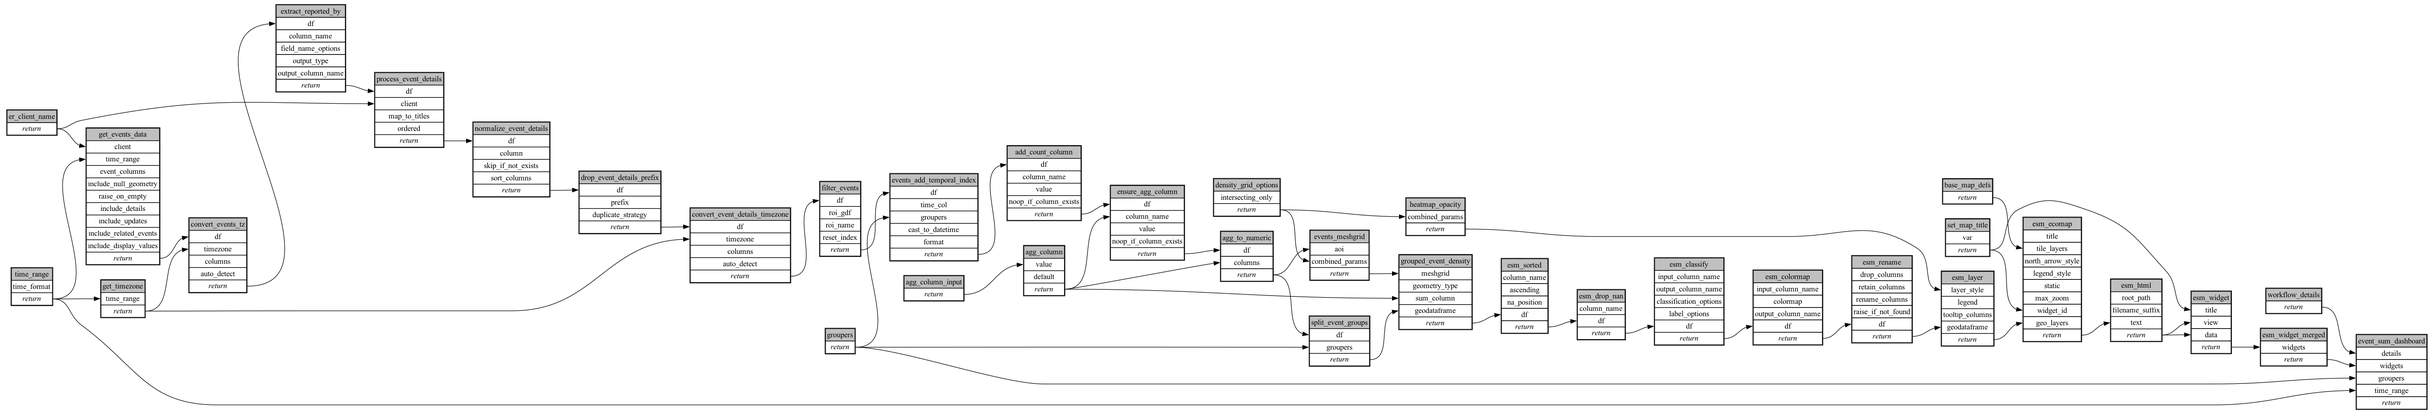
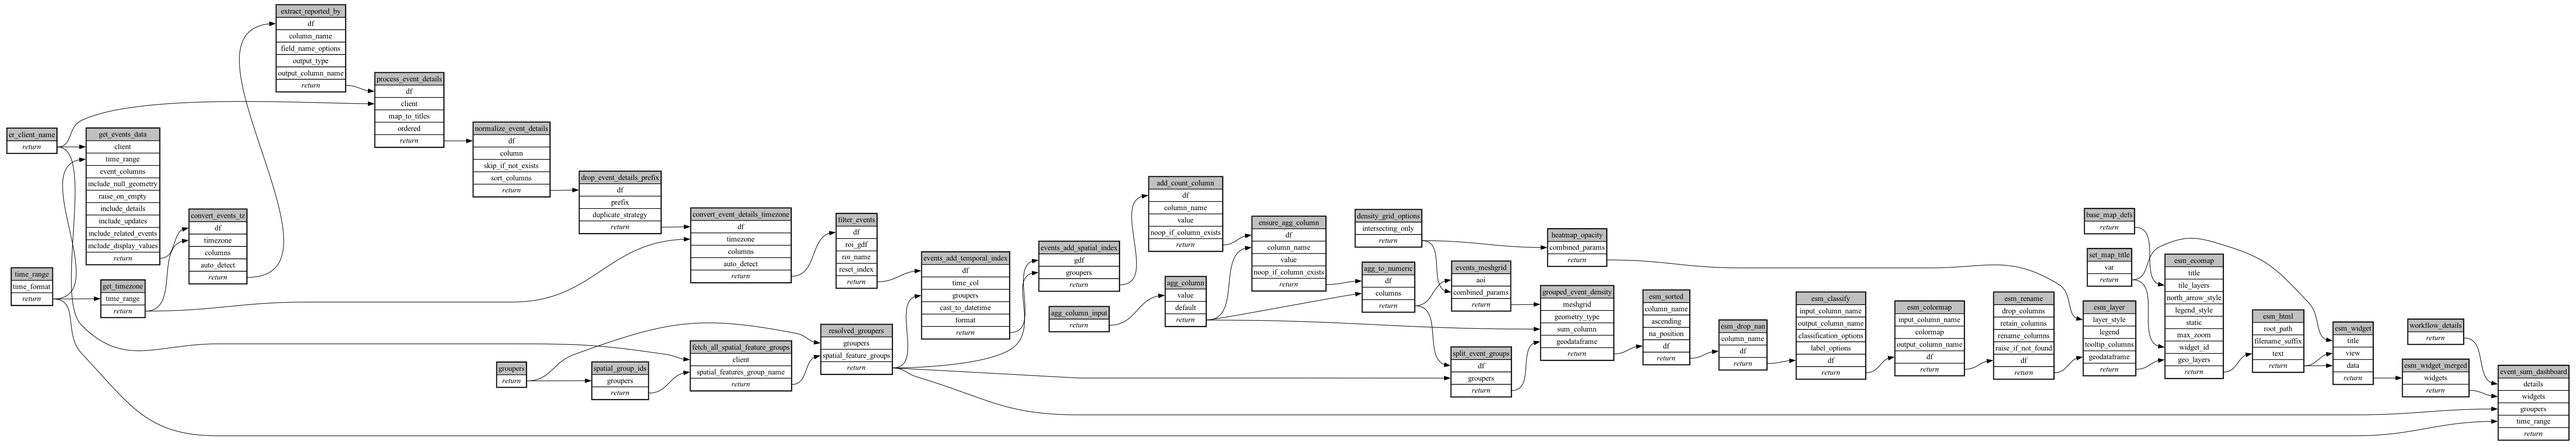
feat: add spatial groupers (events-workflow pattern) with mocked spatial-grouped case

Changed region(s): [[0.0936, 0.0, 0.9986, 1.0], [0.0, 0.2473, 0.1248, 0.7727], [0.0624, 0.9581, 0.9362, 0.989]]

diff --git a/ecoscope-workflows-event-sum-map-workflow/ecoscope_workflows_event_sum_map_workflow/dags/run_sequential_mock_io.py b/ecoscope-workflows-event-sum-map-workflow/ecoscope_workflows_event_sum_map_workflow/dags/run_sequential_mock_io.py
@@ -42,6 +42,24 @@ process_events_details = create_func_magicmock(  # 🧪
     anchor="ecoscope_workflows_ext_custom.tasks.io",  # 🧪
     func_name="process_events_details",  # 🧪
 )  # 🧪
+from ecoscope.platform.tasks.groupby import set_groupers as set_groupers
+from ecoscope.platform.tasks.transformation import (
+    apply_reloc_coord_filter as apply_reloc_coord_filter,
+)
+from ecoscope.platform.tasks.transformation import (
+    extract_spatial_grouper_feature_group_names as extract_spatial_grouper_feature_group_names,
+)
+from ecoscope.platform.tasks.transformation import (
+    normalize_json_column as normalize_json_column,
+)
+from ecoscope_workflows_ext_custom.tasks.transformation import (
+    drop_column_prefix as drop_column_prefix,
+)
+
+get_spatial_features_group = create_func_magicmock(  # 🧪
+    anchor="ecoscope.platform.tasks.io",  # 🧪
+    func_name="get_spatial_features_group",  # 🧪
+)  # 🧪
 from ecoscope.platform.tasks.analysis import (
     calculate_feature_density as calculate_feature_density,
 )
@@ -58,7 +76,6 @@ from ecoscope.platform.tasks.config import (
     set_density_grid_options as set_density_grid_options,
 )
 from ecoscope.platform.tasks.config import set_string_var as set_string_var
-from ecoscope.platform.tasks.groupby import set_groupers as set_groupers
 from ecoscope.platform.tasks.groupby import split_groups as split_groups
 from ecoscope.platform.tasks.io import persist_text as persist_text
 from ecoscope.platform.tasks.results import (
@@ -72,15 +89,15 @@ from ecoscope.platform.tasks.results import set_base_maps as set_base_maps
 from ecoscope.platform.tasks.skip import all_geometry_are_none as all_geometry_are_none
 from ecoscope.platform.tasks.skip import never as never
 from ecoscope.platform.tasks.transformation import (
+    add_spatial_index as add_spatial_index,
+)
+from ecoscope.platform.tasks.transformation import (
     add_temporal_index as add_temporal_index,
 )
 from ecoscope.platform.tasks.transformation import (
     apply_classification as apply_classification,
 )
 from ecoscope.platform.tasks.transformation import apply_color_map as apply_color_map
-from ecoscope.platform.tasks.transformation import (
-    apply_reloc_coord_filter as apply_reloc_coord_filter,
-)
 from ecoscope.platform.tasks.transformation import assign_value as assign_value
 from ecoscope.platform.tasks.transformation import (
     convert_column_values_to_numeric as convert_column_values_to_numeric,
@@ -90,12 +107,9 @@ from ecoscope.platform.tasks.transformation import (
 )
 from ecoscope.platform.tasks.transformation import map_columns as map_columns
 from ecoscope.platform.tasks.transformation import (
-    normalize_json_column as normalize_json_column,
+    resolve_spatial_feature_groups_for_spatial_groupers as resolve_spatial_feature_groups_for_spatial_groupers,
 )
 from ecoscope.platform.tasks.transformation import sort_values as sort_values
-from ecoscope_workflows_ext_custom.tasks.transformation import (
-    drop_column_prefix as drop_column_prefix,
-)
 
 
 def main(params: dict[str, Any], validate_params_schema: bool = True):
@@ -387,6 +401,63 @@ def main(params: dict[str, Any], validate_params_schema: bool = True):
         .call()
     )
 
+    spatial_group_ids = (
+        task(extract_spatial_grouper_feature_group_names)
+        .validate()
+        .set_task_instance_id("spatial_group_ids")
+        .handle_errors()
+        .with_tracing()
+        .skipif(
+            conditions=[
+                any_is_empty_df,
+                any_dependency_skipped,
+            ],
+            unpack_depth=1,
+        )
+        .partial(groupers=groupers, **(params.get("spatial_group_ids") or {}))
+        .call()
+    )
+
+    fetch_all_spatial_feature_groups = (
+        task(get_spatial_features_group)
+        # 🧪 validation omitted for mocked IO task (returns pre-loaded example data)
+        .set_task_instance_id("fetch_all_spatial_feature_groups")
+        .handle_errors()
+        .with_tracing()
+        .skipif(
+            conditions=[
+                any_is_empty_df,
+                any_dependency_skipped,
+            ],
+            unpack_depth=1,
+        )
+        .partial(
+            client=er_client_name,
+            **(params.get("fetch_all_spatial_feature_groups") or {}),
+        )
+        .map(argnames=["spatial_features_group_name"], argvalues=spatial_group_ids)
+    )
+
+    resolved_groupers = (
+        task(resolve_spatial_feature_groups_for_spatial_groupers)
+        .validate()
+        .set_task_instance_id("resolved_groupers")
+        .handle_errors()
+        .with_tracing()
+        .skipif(
+            conditions=[
+                never,
+            ],
+            unpack_depth=1,
+        )
+        .partial(
+            groupers=groupers,
+            spatial_feature_groups=fetch_all_spatial_feature_groups,
+            **(params.get("resolved_groupers") or {}),
+        )
+        .call()
+    )
+
     events_add_temporal_index = (
         task(add_temporal_index)
         .validate()
@@ -403,10 +474,31 @@ def main(params: dict[str, Any], validate_params_schema: bool = True):
         .partial(
             df=filter_events,
             time_col="time",
-            groupers=groupers,
+            groupers=resolved_groupers,
             cast_to_datetime=True,
             format="mixed",
             **(params.get("events_add_temporal_index") or {}),
+        )
+        .call()
+    )
+
+    events_add_spatial_index = (
+        task(add_spatial_index)
+        .validate()
+        .set_task_instance_id("events_add_spatial_index")
+        .handle_errors()
+        .with_tracing()
+        .skipif(
+            conditions=[
+                any_is_empty_df,
+                any_dependency_skipped,
+            ],
+            unpack_depth=1,
+        )
+        .partial(
+            gdf=events_add_temporal_index,
+            groupers=resolved_groupers,
+            **(params.get("events_add_spatial_index") or {}),
         )
         .call()
     )
@@ -500,7 +592,7 @@ def main(params: dict[str, Any], validate_params_schema: bool = True):
             unpack_depth=1,
         )
         .partial(
-            df=events_add_temporal_index,
+            df=events_add_spatial_index,
             column_name="__event_count__",
             value=1,
             noop_if_column_exists=False,
@@ -602,7 +694,7 @@ def main(params: dict[str, Any], validate_params_schema: bool = True):
         )
         .partial(
             df=agg_to_numeric,
-            groupers=groupers,
+            groupers=resolved_groupers,
             **(params.get("split_event_groups") or {}),
         )
         .call()
@@ -886,7 +978,7 @@ def main(params: dict[str, Any], validate_params_schema: bool = True):
         .partial(
             details=workflow_details,
             widgets=[esm_widget_merged],
-            groupers=groupers,
+            groupers=resolved_groupers,
             time_range=time_range,
             **(params.get("event_sum_dashboard") or {}),
         )

diff --git a/ecoscope-workflows-event-sum-map-workflow/ecoscope_workflows_event_sum_map_workflow/dags/run_sequential.py b/ecoscope-workflows-event-sum-map-workflow/ecoscope_workflows_event_sum_map_workflow/dags/run_sequential.py
@@ -26,6 +26,9 @@ from ecoscope.platform.tasks.filter import set_time_range as set_time_range
 from ecoscope.platform.tasks.groupby import set_groupers as set_groupers
 from ecoscope.platform.tasks.groupby import split_groups as split_groups
 from ecoscope.platform.tasks.io import get_events as get_events
+from ecoscope.platform.tasks.io import (
+    get_spatial_features_group as get_spatial_features_group,
+)
 from ecoscope.platform.tasks.io import persist_text as persist_text
 from ecoscope.platform.tasks.io import set_er_connection as set_er_connection
 from ecoscope.platform.tasks.results import (
@@ -42,6 +45,9 @@ from ecoscope.platform.tasks.skip import (
 )
 from ecoscope.platform.tasks.skip import any_is_empty_df as any_is_empty_df
 from ecoscope.platform.tasks.skip import never as never
+from ecoscope.platform.tasks.transformation import (
+    add_spatial_index as add_spatial_index,
+)
 from ecoscope.platform.tasks.transformation import (
     add_temporal_index as add_temporal_index,
 )
@@ -63,11 +69,17 @@ from ecoscope.platform.tasks.transformation import (
     drop_nan_values_by_column as drop_nan_values_by_column,
 )
 from ecoscope.platform.tasks.transformation import (
+    extract_spatial_grouper_feature_group_names as extract_spatial_grouper_feature_group_names,
+)
+from ecoscope.platform.tasks.transformation import (
     extract_value_from_json_column as extract_value_from_json_column,
 )
 from ecoscope.platform.tasks.transformation import map_columns as map_columns
 from ecoscope.platform.tasks.transformation import (
     normalize_json_column as normalize_json_column,
+)
+from ecoscope.platform.tasks.transformation import (
+    resolve_spatial_feature_groups_for_spatial_groupers as resolve_spatial_feature_groups_for_spatial_groupers,
 )
 from ecoscope.platform.tasks.transformation import sort_values as sort_values
 from ecoscope_workflows_ext_custom.tasks.io import (
@@ -369,6 +381,63 @@ def main(params: dict[str, Any], validate_params_schema: bool = True):
         .call()
     )
 
+    spatial_group_ids = (
+        task(extract_spatial_grouper_feature_group_names)
+        .validate()
+        .set_task_instance_id("spatial_group_ids")
+        .handle_errors()
+        .with_tracing()
+        .skipif(
+            conditions=[
+                any_is_empty_df,
+                any_dependency_skipped,
+            ],
+            unpack_depth=1,
+        )
+        .partial(groupers=groupers, **(params.get("spatial_group_ids") or {}))
+        .call()
+    )
+
+    fetch_all_spatial_feature_groups = (
+        task(get_spatial_features_group)
+        .validate()
+        .set_task_instance_id("fetch_all_spatial_feature_groups")
+        .handle_errors()
+        .with_tracing()
+        .skipif(
+            conditions=[
+                any_is_empty_df,
+                any_dependency_skipped,
+            ],
+            unpack_depth=1,
+        )
+        .partial(
+            client=er_client_name,
+            **(params.get("fetch_all_spatial_feature_groups") or {}),
+        )
+        .map(argnames=["spatial_features_group_name"], argvalues=spatial_group_ids)
+    )
+
+    resolved_groupers = (
+        task(resolve_spatial_feature_groups_for_spatial_groupers)
+        .validate()
+        .set_task_instance_id("resolved_groupers")
+        .handle_errors()
+        .with_tracing()
+        .skipif(
+            conditions=[
+                never,
+            ],
+            unpack_depth=1,
+        )
+        .partial(
+            groupers=groupers,
+            spatial_feature_groups=fetch_all_spatial_feature_groups,
+            **(params.get("resolved_groupers") or {}),
+        )
+        .call()
+    )
+
     events_add_temporal_index = (
         task(add_temporal_index)
         .validate()
@@ -385,10 +454,31 @@ def main(params: dict[str, Any], validate_params_schema: bool = True):
         .partial(
             df=filter_events,
             time_col="time",
-            groupers=groupers,
+            groupers=resolved_groupers,
             cast_to_datetime=True,
             format="mixed",
             **(params.get("events_add_temporal_index") or {}),
+        )
+        .call()
+    )
+
+    events_add_spatial_index = (
+        task(add_spatial_index)
+        .validate()
+        .set_task_instance_id("events_add_spatial_index")
+        .handle_errors()
+        .with_tracing()
+        .skipif(
+            conditions=[
+                any_is_empty_df,
+                any_dependency_skipped,
+            ],
+            unpack_depth=1,
+        )
+        .partial(
+            gdf=events_add_temporal_index,
+            groupers=resolved_groupers,
+            **(params.get("events_add_spatial_index") or {}),
         )
         .call()
     )
@@ -482,7 +572,7 @@ def main(params: dict[str, Any], validate_params_schema: bool = True):
             unpack_depth=1,
         )
         .partial(
-            df=events_add_temporal_index,
+            df=events_add_spatial_index,
             column_name="__event_count__",
             value=1,
             noop_if_column_exists=False,
@@ -584,7 +674,7 @@ def main(params: dict[str, Any], validate_params_schema: bool = True):
         )
         .partial(
             df=agg_to_numeric,
-            groupers=groupers,
+            groupers=resolved_groupers,
             **(params.get("split_event_groups") or {}),
         )
         .call()
@@ -868,7 +958,7 @@ def main(params: dict[str, Any], validate_params_schema: bool = True):
         .partial(
             details=workflow_details,
             widgets=[esm_widget_merged],
-            groupers=groupers,
+            groupers=resolved_groupers,
             time_range=time_range,
             **(params.get("event_sum_dashboard") or {}),
         )

diff --git a/ecoscope-workflows-event-sum-map-workflow/tests/conftest.py b/ecoscope-workflows-event-sum-map-workflow/tests/conftest.py
@@ -44,6 +44,7 @@ RESULTS_ENV_VAR = "ECOSCOPE_WORKFLOWS_RESULTS"
 IO_TASKS_IMPORTABLE_REFERENCES = [
     "ecoscope.platform.tasks.io.get_events",
     "ecoscope_workflows_ext_custom.tasks.io.process_events_details",
+    "ecoscope.platform.tasks.io.get_spatial_features_group",
 ]
 
 yaml = ruamel.yaml.YAML(typ="safe")

diff --git a/ecoscope-workflows-event-sum-map-workflow/README.md b/ecoscope-workflows-event-sum-map-workflow/README.md
@@ -5,8 +5,8 @@
 
 ```yaml
 # fingerprint:
-artifacts_sha256_basic: 3b18cd59927731692765318dca97a28f6dffd5ca5ae03da9add9fa1801a1c9a2
-artifacts_sha256_strict: 19fceff8365fc25edb654c333221eade2df6199fd73d9cfe349444a00870bbea
+artifacts_sha256_basic: 04c5030af70b4f1e4a9b821cf912df5d2ea3825c59e923f281194ed76d55e567
+artifacts_sha256_strict: 681cd6985e72a571fb5e2733207cd6057415e1841b4c88c619b1b12656440639
 installed_requirements:
 - channel: https://repo.prefix.dev/ecoscope-workflows/
   name: ecoscope-platform
@@ -18,7 +18,7 @@ installed_requirements:
   name: pydeck
   version: {version: ==0.9.2}
 params_sha256: f59b960b22e307fc200c2e6469d36fbcc4d5a5e7125b20a921cf3ea77061bc4d
-spec_sha256: 74c799513bfb3bedd2dadb178fa7761eaa2c3b0a4c4b44a1d2daa6aeb219c940
+spec_sha256: 330bfd6f81317151f4343e5f8ce5a95c32f8c51ad5ff2f088e9e7222a88ba584
 
 ```
 
